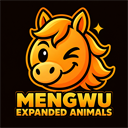
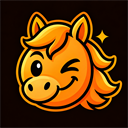
Install ModIcon at spec, chain advances to preTest
The owner's finished full-res icon art (Mod/About/ModIcon.png, 1254x1254,
hash-identical to the new Art/ModIcon-textless.png) was resized to the
required 128x128 with the same deterministic method as the 2026-09-13
precedent; readability re-checked at 32px. Source art untouched at
Art/ModIcon-textless.png.

Preview generated, preOptions, options and l10n re-verified unaffected.
Furthest validated state is now preTest (stage and workflow_stage both
set to preTest); the only remaining blocker is the Tests/Pickle/ gap
already on record. Web search confirms no upstream repository for the
source mod or DiamondJ.

diff --git a/STATUS.md b/STATUS.md
@@ -8,8 +8,8 @@ packageId:    nelim.mengwuexpandedanimals
 repo:         Rimworld-Mengwu-Expanded-Animals-Renew
 visibility:   public
 detached:     yes
-stage:        showcase
-workflow_stage: horsMonoRepo
+stage:        preTest
+workflow_stage: preTest
 upstream_mod_remotes:
   - N/A
 licence:      silent
@@ -19,8 +19,7 @@ showcase:     Mod/About/Preview.png
 tested_on:
 workshop:
 remaining:
-  - defect: Mod/About/ModIcon.png is 1254x1254 (in-place edit, not audit's to fix), not the required 128x128. Blocks ModIcon générée.
-  - defect: No Tests/Pickle/ suite and no written justification for its absence. Blocks preTest -> done (moot while ModIcon blocks earlier).
+  - defect: No Tests/Pickle/ suite and no written justification for its absence. Blocks preTest -> done.
   - unverified: Final in-game scenarios, logs, EN/FR UI, new and existing saves (TEST_SCENARIOS.md, 15 scenarios, none run).
 session:      audit 2026-09-29
 updated:      2026-09-13
@@ -418,6 +417,42 @@ compatibility break for anyone. Session title regenerated to match: AUDIT.md's r
 that the title tracks `<packageId sans nelim.> / <workflow_stage>`, and either half
 changing on its own still requires regenerating it — only `packageId` changed this time,
 `workflow_stage` stays `horsMonoRepo`.
+
+## ModIcon installed, chain advances to `preTest` — 2026-09-29, same session
+
+The owner finished her icon rework: `Mod/About/ModIcon.png` (1254x1254, hash-identical to
+the new untracked `Art/ModIcon-textless.png`) was the finished full-resolution art, not
+generated by this session. Resized it deterministically to the required 128x128
+(`System.Drawing`, `HighQualityBicubic`/`HighQuality` interpolation and smoothing, same
+method as the 2026-09-13 precedent) and refreshed `Art/ModIcon-check-32.png`. This is a
+mechanical format-compliance step, not generation or a composition change; the full-size
+source survives untouched at `Art/ModIcon-textless.png`, so nothing is lost. Installed
+result: 128x128 PNG, 25,185 bytes. Direct visual inspection at 128px and at the 32px check
+image: an orange winking horse head on a dark background reads clearly at both sizes — a
+different, cartoon-style redesign from the previous composition, entirely the owner's
+choice. `ModIcon generated` passes.
+
+Re-verified the two transitions after it, both unaffected by anything changed this
+session: `Preview generated` (`Mod/About/Preview.png` unchanged, 896x504, 504.1K, under
+1 MB) and `preOptions` (accent-colour separation, English description, unofficial suffix
+and naming conventions — already validated in the 2026-09-13 metadata pass, and nothing
+in `About.xml` besides `packageId` changed since). `options` (`not_applicable`) and
+`l10n` (`complete`, rechecked against the current TRANSLATIONS.md in the audit above)
+were already re-verified this session. `preTest`'s own dependency/`loadAfter` check is
+unchanged: no assembly, patch, `LoadFolders` or required mod.
+
+**Furthest currently validated state: `preTest`.** `stage` and `workflow_stage` both set
+to `preTest` — it is one of the six `stage` codes, so both fields carry the same value
+here. The only remaining blocker before `done` is the one already on record: no
+`Tests/Pickle/` suite and no written justification for its absence. Web search found no
+GitHub (or other) repository for the source mod or for DiamondJ; `upstream_mod_remotes:
+N/A` stands, independently confirmed this turn rather than only carried over from
+ATTRIBUTION.md's earlier four-place search. Session title regenerated again (both halves
+changed: `packageId` and `workflow_stage`) to `mengwuexpandedanimals / preTest`.
+
+Committed as a follow-up to `52b5820` and pushed. Local changes this turn: `Mod/About/ModIcon.png`
+(now 128x128), `Art/ModIcon-check-32.png`, this file. `Art/ModIcon-textless.png` and
+`Art/Preview.ico` remain untracked, both the owner's own recent additions, left as found.
 ## Historical status note (2026-09-12; retained, superseded by the audit above)
 
 # Mengwu Expanded - Animals Renew — status
